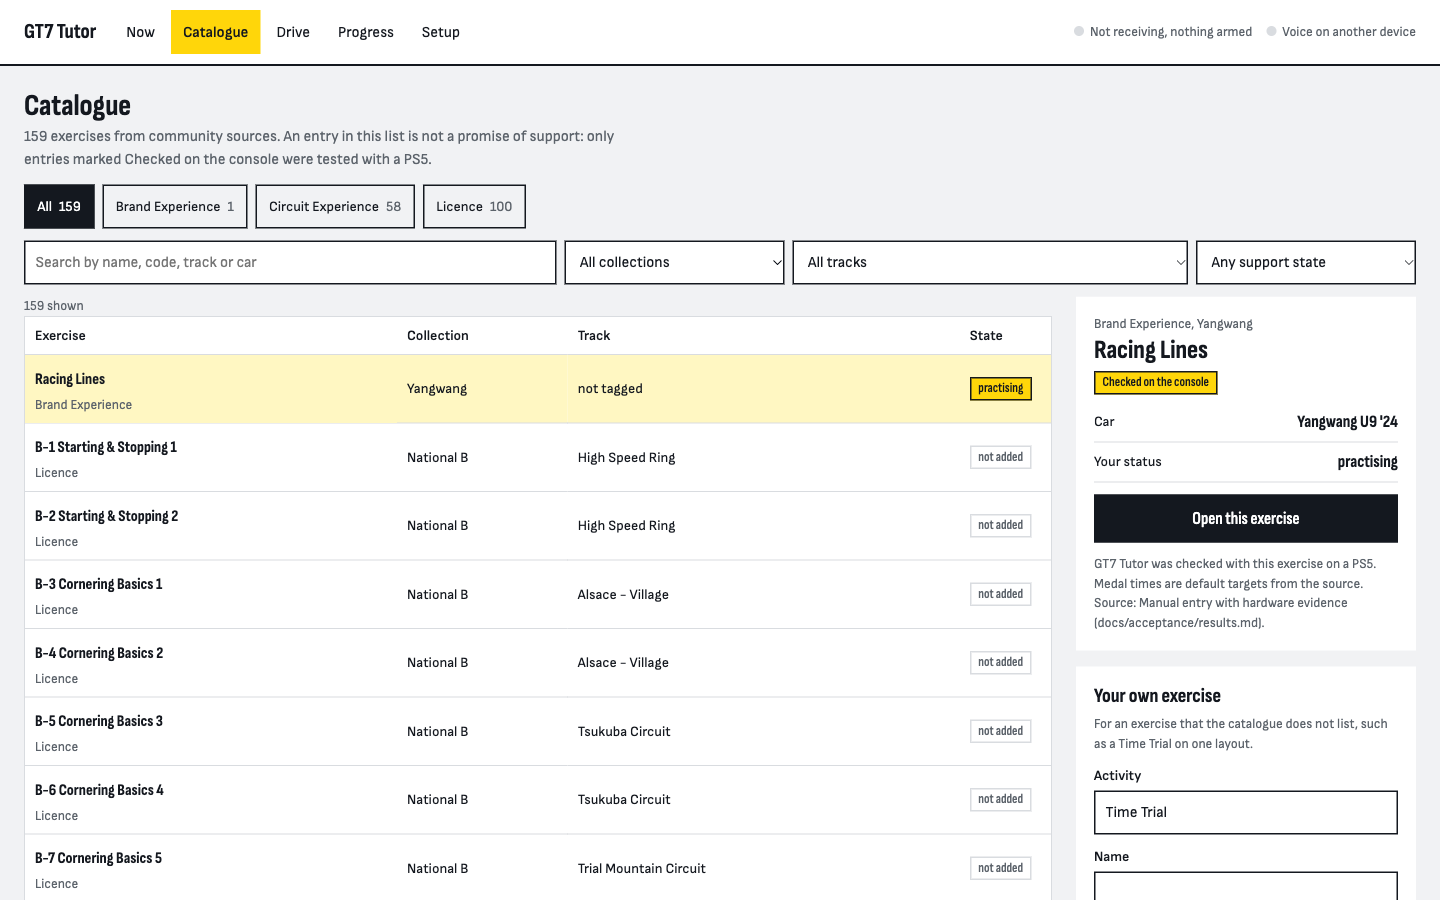
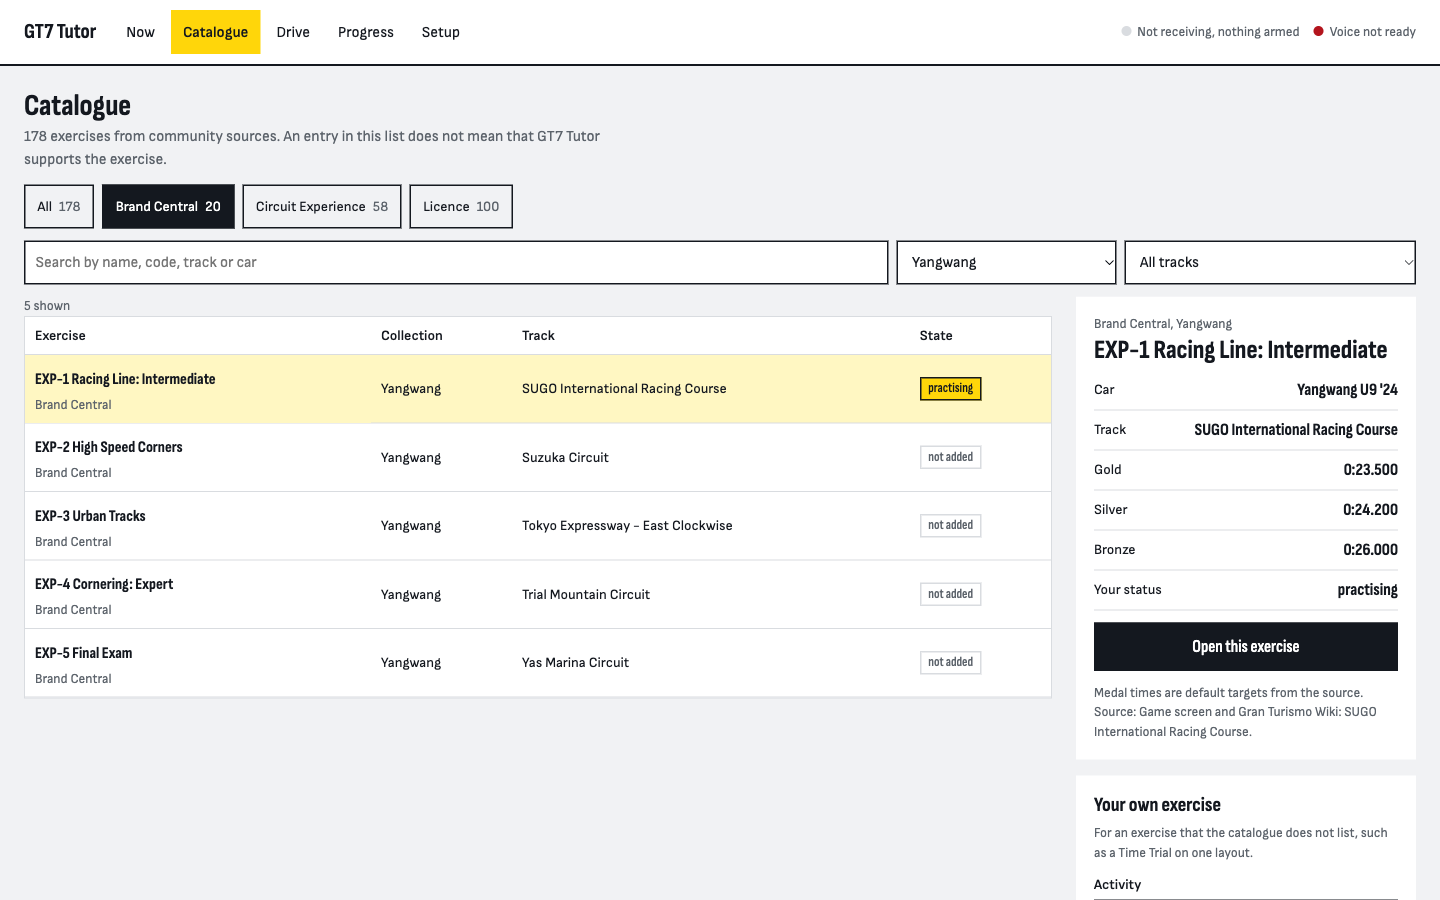
docs: describe the Brand Central catalogue and take the catalogue screenshot again
The site names 20 Brand Central exercises and the game name
Yangwang EXP-1 Racing Line: Intermediate. The new screenshot comes from
the demo server and shows the catalogue without the support filter.

diff --git a/site/index.html b/site/index.html
@@ -41,7 +41,7 @@
     </figure>
   </div>
   <section class="roadbook wrap" aria-labelledby="roadbook-title">
-    <h2 id="roadbook-title" class="roadbook-title">The seven cues and three turns of one reference: Yangwang Experience, Racing Lines, 1093 m</h2>
+    <h2 id="roadbook-title" class="roadbook-title">The seven cues and three turns of one reference: Yangwang EXP-1 Racing Line: Intermediate, 1093 m</h2>
     <ol class="strip">
       <li class="brake" style="--at: 30.4%"><b>332 m</b><span>Hard brake <em>85</em></span></li>
       <li class="throttle" style="--at: 44.9%"><b>491 m</b><span>Full throttle</span></li>
@@ -107,14 +107,14 @@
     <div>
       <h2 id="checked-title">Exercises</h2>
       <p>You record a reference from a demonstration of the game. GT7 Tutor then guides you through that exercise.</p>
-      <p class="small">The catalogue lists 100 licence tests and 58 Circuit Experience sections from public sources. A listed exercise is not a supported exercise.</p>
+      <p class="small">The catalogue lists 100 licence tests, 58 Circuit Experience sections and 20 Brand Central exercises. A listed exercise is not a supported exercise.</p>
     </div>
   </section>
 
   <section class="wrap block" aria-labelledby="catalogue-title">
     <h2 id="catalogue-title">Find an exercise</h2>
     <p class="intro">Select an exercise in the catalogue, or create your own.</p>
-    <img class="wide-shot" src="assets/screenshots/catalogue-desktop.png" alt="The catalogue with filters for activity, collection and track. Yangwang Racing Lines is selected." width="1440" height="900" loading="lazy">
+    <img class="wide-shot" src="assets/screenshots/catalogue-desktop.png" alt="The catalogue filtered to Brand Central and the Yangwang collection. EXP-1 Racing Line: Intermediate is selected." width="1440" height="900" loading="lazy">
   </section>
 
   <template data-section="donate">

diff --git a/docs/protocol.md b/docs/protocol.md
@@ -172,7 +172,7 @@ These facts come from captures of one exercise. The code depends on them.
 - **The packet does not name the exercise.** It gives a car ID only. Car ID 3602 is the Yangwang U9 '24 in the community car table.
 - **The packet has no track edges.** Format `C` gives the surface letter under each wheel. The application does not use it.
 
-The captures behind these facts come from one exercise: `Yangwang Experience / Racing Lines` (Brand Central, Experience).
+The captures behind these facts come from one exercise: `Yangwang EXP-1 Racing Line: Intermediate` (Brand Central, Experience).
 
 ## Coordinates and units
 

diff --git a/README.md b/README.md
@@ -143,7 +143,7 @@ Then the command prints:
 - the address for a phone on the same network, and a QR code of it
 - the demo profile `demo` and its password `demodemo`.
 
-The demo has the exercise `Yangwang Experience / Racing Lines`, its reference, and three recorded attempts.
+The demo has the exercise `Yangwang EXP-1 Racing Line: Intermediate`, its reference, and three recorded attempts.
 Open **Drive** and select **Play a demo attempt** to hear a guided attempt with voice.
 The attempt replays in real time and takes about one minute.
 After it, the attempt summary, the review and **Progress** show the results.
